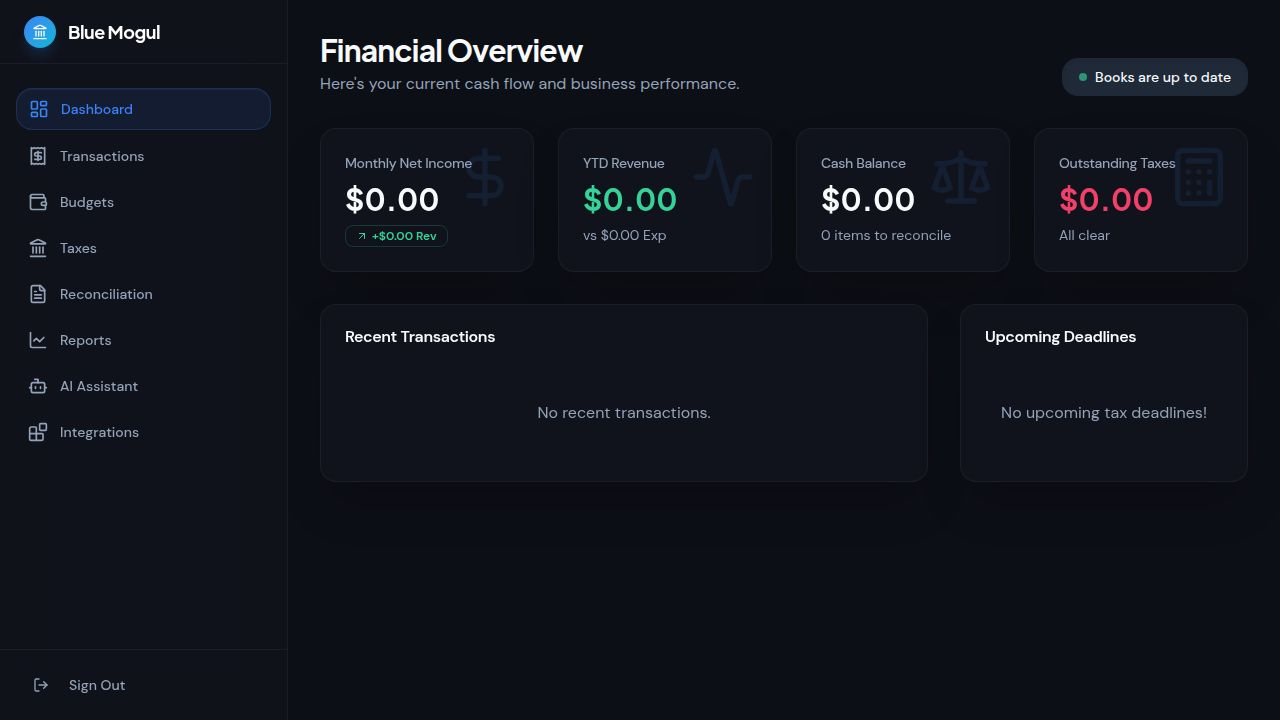
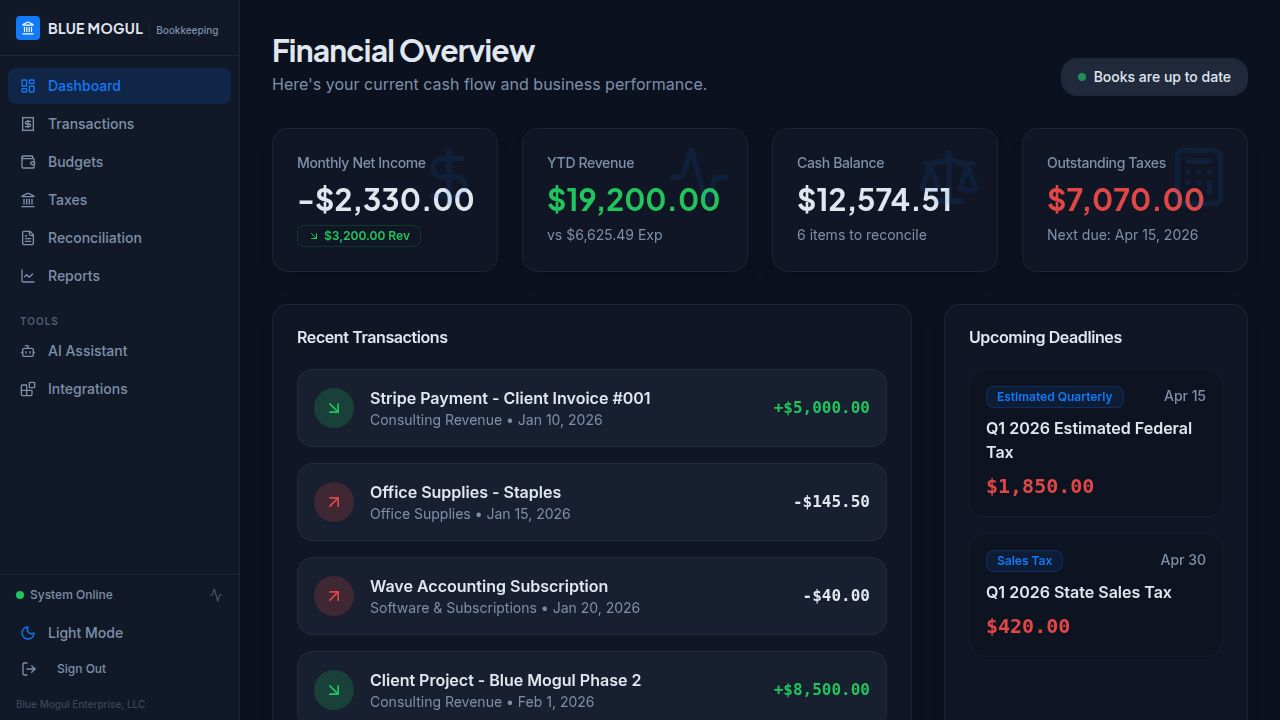
Import paid invoices from Wave Accounting as income transactions
Update Wave Accounting integration to query and import paid invoices from the 'Blue Mogul Enterprise, LLC' business, handling pagination and existing transaction checks.

Replit-Commit-Author: Agent
Replit-Commit-Session-Id: 414bb035-8d56-40a7-9ebc-2d8f861e3e46
Replit-Commit-Checkpoint-Type: full_checkpoint
Replit-Commit-Event-Id: 5995724a-440b-492e-a0b8-06af8be30360
Replit-Commit-Screenshot-Url: https://storage.googleapis.com/screenshot-production-us-central1/eecc267a-f459-4fec-8698-6530d948b855/414bb035-8d56-40a7-9ebc-2d8f861e3e46/6RBsRp1
Replit-Helium-Checkpoint-Created: true

diff --git a/artifacts/api-server/src/routes/integrations.ts b/artifacts/api-server/src/routes/integrations.ts
@@ -32,80 +32,114 @@ router.post("/wave/sync", async (_req, res) => {
   }
 
   try {
-    const query = `
-      query {
-        businesses {
-          edges {
-            node {
-              id
-              name
-              transactions(first: 50) {
-                edges {
-                  node {
-                    id
-                    description
-                    amount
-                    date
-                    anchor { account { name } }
-                  }
-                }
+    // Step 1: Get the Blue Mogul Enterprise, LLC business ID
+    const bizQuery = `{
+      businesses(page: 1, pageSize: 10) {
+        edges {
+          node {
+            id
+            name
+          }
+        }
+      }
+    }`;
+
+    const bizResp = await fetch(WAVE_API_URL, {
+      method: "POST",
+      headers: { Authorization: `Bearer ${apiKey}`, "Content-Type": "application/json" },
+      body: JSON.stringify({ query: bizQuery }),
+    });
+    const bizData = await bizResp.json() as any;
+    const businesses: any[] = bizData?.data?.businesses?.edges || [];
+
+    // Prefer Blue Mogul Enterprise, LLC; fall back to first business
+    const targetBiz =
+      businesses.find((b: any) => b.node.name.toLowerCase().includes("blue mogul")) ||
+      businesses[0];
+
+    if (!targetBiz) {
+      return res.json({ success: false, imported: 0, message: "No Wave business found" });
+    }
+
+    const bizId = targetBiz.node.id;
+    let imported = 0;
+    let page = 1;
+    let hasMore = true;
+
+    // Step 2: Page through all invoices and import them
+    while (hasMore) {
+      const invoiceQuery = `{
+        business(id: "${bizId}") {
+          invoices(page: ${page}, pageSize: 50) {
+            pageInfo { totalCount currentPage totalPages }
+            edges {
+              node {
+                id
+                invoiceNumber
+                invoiceDate
+                status
+                total { value currency { code } }
+                amountDue { value }
+                customer { name }
               }
             }
           }
         }
-      }
-    `;
+      }`;
 
-    const response = await fetch(WAVE_API_URL, {
-      method: "POST",
-      headers: {
-        Authorization: `Bearer ${apiKey}`,
-        "Content-Type": "application/json",
-      },
-      body: JSON.stringify({ query }),
-    });
-
-    if (!response.ok) {
-      return res.json({
-        success: false,
-        imported: 0,
-        message: `Wave API error: ${response.statusText}`,
+      const invResp = await fetch(WAVE_API_URL, {
+        method: "POST",
+        headers: { Authorization: `Bearer ${apiKey}`, "Content-Type": "application/json" },
+        body: JSON.stringify({ query: invoiceQuery }),
       });
-    }
+      const invData = await invResp.json() as any;
+      const invoicesPage = invData?.data?.business?.invoices;
 
-    const data = await response.json() as any;
-    const businesses = data?.data?.businesses?.edges || [];
-    let imported = 0;
+      if (!invoicesPage) break;
 
-    for (const biz of businesses) {
-      const txns = biz.node?.transactions?.edges || [];
-      for (const edge of txns) {
-        const tx = edge.node;
+      const { totalPages, currentPage } = invoicesPage.pageInfo;
+      const edges: any[] = invoicesPage.edges || [];
+
+      for (const edge of edges) {
+        const inv = edge.node;
+        // Only import paid invoices as confirmed income
+        if (inv.status !== "PAID" && inv.status !== "PARTIAL") continue;
+
+        const amount = parseFloat(inv.total?.value || "0");
+        if (amount <= 0) continue;
+
+        const sourceId = `wave-inv-${inv.id}`;
         const existing = await db
           .select()
           .from(transactionsTable)
-          .where(eq(transactionsTable.sourceId, tx.id))
+          .where(eq(transactionsTable.sourceId, sourceId))
           .limit(1);
+
         if (existing.length === 0) {
           await db.insert(transactionsTable).values({
-            date: tx.date,
-            description: tx.description || "Wave transaction",
-            amount: String(Math.abs(tx.amount)),
-            type: tx.amount >= 0 ? "income" : "expense",
-            category: tx.anchor?.account?.name || "Uncategorized",
+            date: inv.invoiceDate || new Date().toISOString().split("T")[0],
+            description: `Invoice #${inv.invoiceNumber}${inv.customer?.name ? ` – ${inv.customer.name}` : ""}`,
+            amount: String(amount),
+            type: "income",
+            category: "Consulting Revenue",
             source: "wave",
-            sourceId: tx.id,
+            sourceId,
             taxDeductible: false,
           });
           imported++;
         }
       }
+
+      hasMore = currentPage < totalPages;
+      page++;
     }
 
     res.json({
       success: true,
       imported,
-      message: `Successfully synced ${imported} new transactions from Wave`,
+      message: imported > 0
+        ? `Successfully imported ${imported} paid invoices from Wave (${targetBiz.node.name})`
+        : "All Wave invoices are already up to date",
     });
   } catch (e) {
     console.error("Wave sync error:", e);